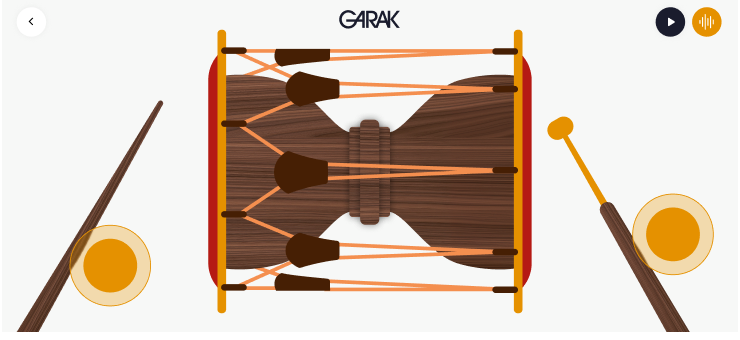
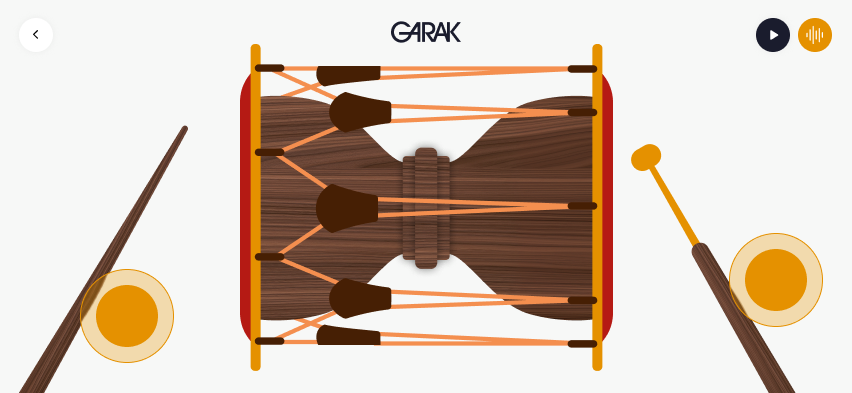
feat: Figma 장구 연주 화면 구현

diff --git a/front/src/product/__tests__/garakScreenFrame.test.ts b/front/src/product/__tests__/garakScreenFrame.test.ts
@@ -1,4 +1,5 @@
-import { existsSync } from 'node:fs';
+import { createHash } from 'node:crypto';
+import { existsSync, readFileSync } from 'node:fs';
 import { dirname, resolve } from 'node:path';
 import { fileURLToPath } from 'node:url';
 import { expect, test } from 'vitest';
@@ -11,6 +12,12 @@ import {
 
 const testDir = dirname(fileURLToPath(import.meta.url));
 const productAssetsDir = resolve(testDir, '../../../assets/product');
+
+const getProductAssetSha256 = (assetName: string) =>
+  createHash('sha256')
+    .update(readFileSync(resolve(productAssetsDir, assetName)))
+    .digest('hex')
+    .toUpperCase();
 
 test('uses a landscape non-scroll frame for performance-focused screens', () => {
   expect(PERFORMANCE_LANDSCAPE_SCREEN_IDS).toEqual(['S05', 'S09', 'S15']);
@@ -32,7 +39,12 @@ test('keeps setup, editing, guide, and library screens in the portrait scroll fr
 });
 
 test('ships the Figma janggu stage bitmap for the landscape free-play surface', () => {
-  expect(existsSync(resolve(productAssetsDir, 'creation-free-play-janggu-stage.png'))).toBe(true);
+  const assetName = 'creation-free-play-janggu-stage.png';
+
+  expect(existsSync(resolve(productAssetsDir, assetName))).toBe(true);
+  expect(getProductAssetSha256(assetName)).toBe(
[1 lines of base64/hex data omitted]
+  );
 });
 
 test('ships the Figma gayageum stage bitmap for the landscape free-play surface', () => {
